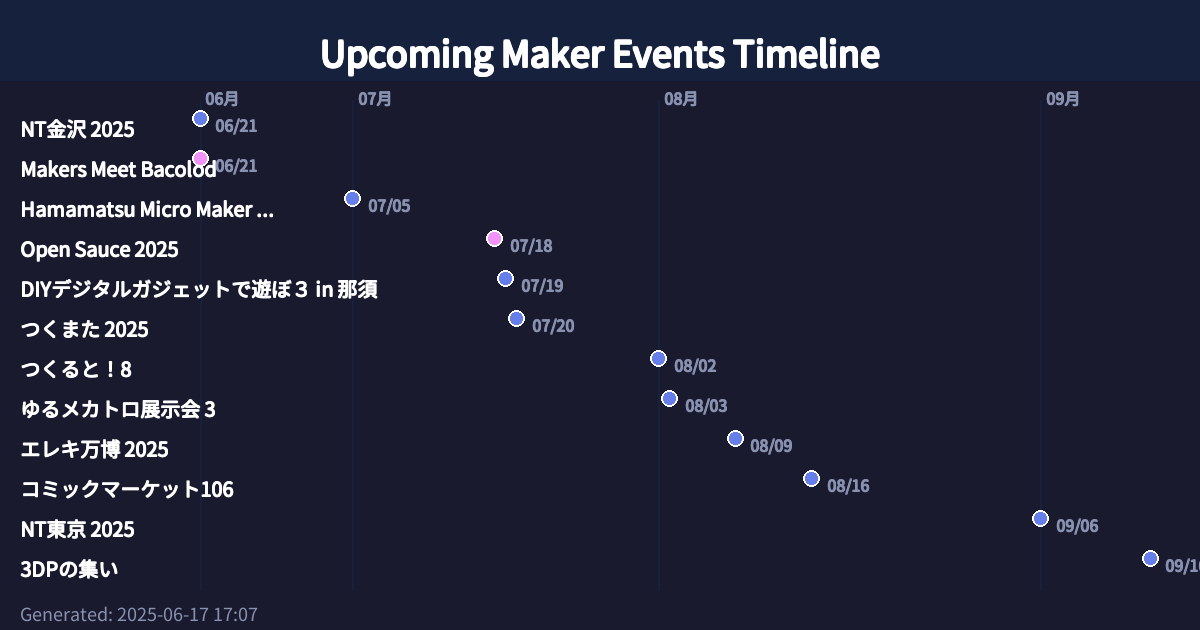
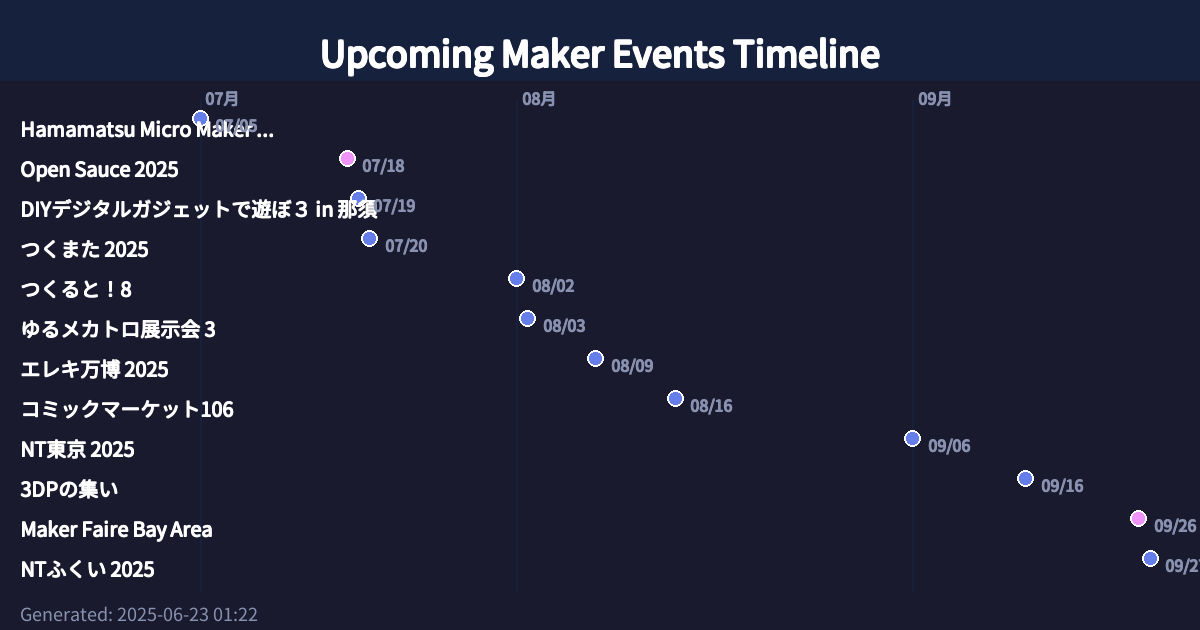
ページ更新

diff --git a/index.html b/index.html
@@ -7,7 +7,7 @@
     
     <!-- OGP Meta Tags for Social Media Sharing -->
     <meta property="og:title" content="Upcoming Maker Events | 今後のメイカーイベント">
-    <meta property="og:description" content="世界中のメイカーイベント情報を一覧で確認。Maker Faire、NT、技術書典など23件のイベント情報を掲載。 | Discover upcoming maker events worldwide including Maker Faires, technical conferences, and maker gatherings.">
+    <meta property="og:description" content="世界中のメイカーイベント情報を一覧で確認。Maker Faire、NT、技術書典など21件のイベント情報を掲載。 | Discover upcoming maker events worldwide including Maker Faires, technical conferences, and maker gatherings.">
     <meta property="og:type" content="website">
     <meta property="og:url" content="https://shinichi-ohki.github.io/maker_event/">
     <meta property="og:image" content="https://shinichi-ohki.github.io/maker_event/ogp_image.png">
@@ -17,11 +17,11 @@
     <!-- Twitter Card -->
     <meta name="twitter:card" content="summary_large_image">
     <meta name="twitter:title" content="Upcoming Maker Events | 今後のメイカーイベント">
-    <meta name="twitter:description" content="世界中のメイカーイベント情報を一覧で確認。23件のイベント情報を掲載。">
+    <meta name="twitter:description" content="世界中のメイカーイベント情報を一覧で確認。21件のイベント情報を掲載。">
     <meta name="twitter:image" content="https://shinichi-ohki.github.io/maker_event/ogp_image.png">
     
     <!-- Standard Meta Tags -->
-    <meta name="description" content="世界中のメイカーイベント情報を一覧で確認。Maker Faire、NT、技術書典など23件のイベント情報を掲載。">
+    <meta name="description" content="世界中のメイカーイベント情報を一覧で確認。Maker Faire、NT、技術書典など21件のイベント情報を掲載。">
     <meta name="keywords" content="Maker Faire, メイカーイベント, 技術イベント, NT, 技術書典, DIY, ハードウェア, プログラミング">
     <meta name="author" content="Maker Events Team">
     <style>
@@ -199,25 +199,6 @@
         <section class="japan-events">
             <h2 class="section-title">🇯🇵 日本のイベント | Events in Japan</h2>
             <div class="events-grid">
-                
-                <div class="event-card">
-                    <div class="event-image">
-                        
-                            🛠
-                        
-                    </div>
-                    <div class="event-content">
-                        
-                        <div class="event-date">2025年06月21日〜22日</div>
-                        
-                        <h3 class="event-title">NT金沢 2025</h3>
-                        <p class="event-location">金沢駅東もてなしドーム地下広場, 金沢, 日本</p>
-                        
-                        
-                        <a href="https://wiki.nicotech.jp/nico_tech/?NT%E9%87%91%E6%B2%A22025" class="event-link" target="_blank">詳細を見る</a>
-                        
-                    </div>
-                </div>
                 
                 <div class="event-card">
                     <div class="event-image">
@@ -502,25 +483,6 @@
                     </div>
                     <div class="event-content">
                         
-                        <div class="event-date">June 21-22, 2025</div>
-                        
-                        <h3 class="event-title">Makers Meet Bacolod</h3>
-                        <p class="event-location">Ayala Malls Capitol Central, フィリピン, Philippines</p>
-                        
-                        
-                        <a href="https://www.facebook.com/events/1286215023121563/" class="event-link" target="_blank">Learn More</a>
-                        
-                    </div>
-                </div>
-                
-                <div class="event-card">
-                    <div class="event-image">
-                        
-                            🛠
-                        
-                    </div>
-                    <div class="event-content">
-                        
                         <div class="event-date">July 18-20, 2025</div>
                         
                         <h3 class="event-title">Open Sauce 2025</h3>
@@ -592,7 +554,7 @@
                 <div class="event-card">
                     <div class="event-image">
                         
-                            <img src="https://makerfaireshanghai.com/wp-content/uploads/2023/05/Maker-Faire-Shanghai-2023-Event-Gallery-27-1024x683.jpg" alt="Maker Faire Shaghai" style="width: 100%; height: 100%; object-fit: cover;">
+                            🛠
                         
                     </div>
                     <div class="event-content">
